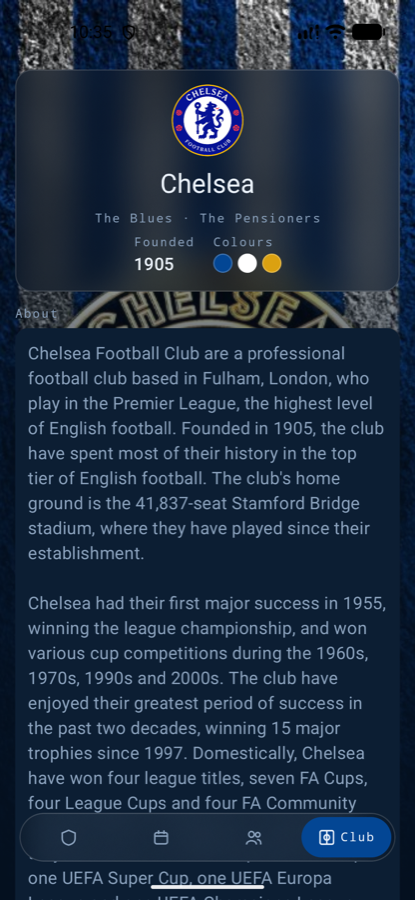
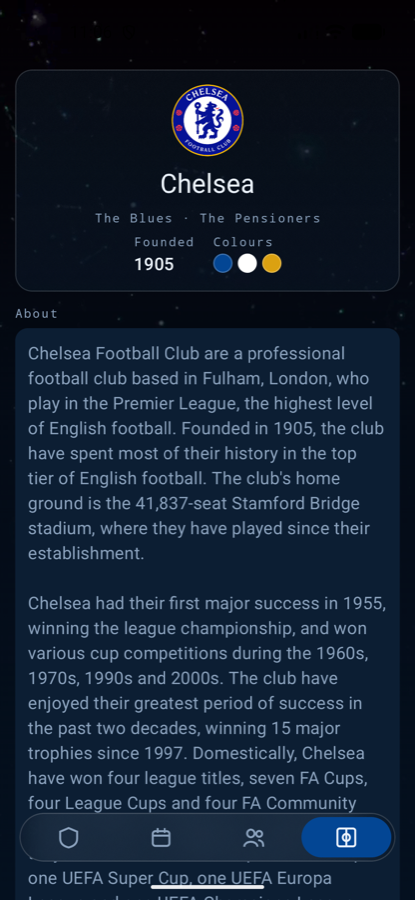
feat(club): play an ambient clip behind the club screen
The matchday photograph stays as it was; the club screen is where the player
now earns its place.

The clip is abstract on purpose, and that choice came from the failed
attempt rather than from taste. A backdrop has to survive being blended over
a photograph, and footage with a subject does not — a face stayed
recognisable at every opacity I tried. A night sky has nothing to recognise,
so it reads as weather over the crest.

diff --git a/feature/club/src/commonMain/kotlin/com/begoml/bridge/feature/club/ClubScreen.kt b/feature/club/src/commonMain/kotlin/com/begoml/bridge/feature/club/ClubScreen.kt
@@ -46,6 +46,7 @@ import com.begoml.bridge.core.data.model.Venue
 import com.begoml.bridge.foundation.tessera.collectUiState
 import com.begoml.bridge.uikit.LocalScreenPadding
 import com.begoml.bridge.uikit.component.BackdropImage
+import com.begoml.bridge.uikit.component.BackdropVideo
 import com.begoml.bridge.uikit.component.BadgeImage
 import com.begoml.bridge.uikit.component.GlassPanel
 import com.begoml.bridge.uikit.component.LoadableContent
@@ -56,6 +57,17 @@ import com.begoml.bridge.uikit.theme.BridgeColors
 import com.begoml.bridge.uikit.theme.LabelStyle
 import org.jetbrains.compose.resources.stringResource
 
+/**
+ * The clip behind this screen.
+ *
+ * Abstract on purpose. A backdrop has to survive being blended over a photograph, and anything
+ * with a subject does not: tried on device, narrative footage stays recognisable at any opacity.
+ * A night sky has nothing to recognise, so it reads as weather over the crest rather than as a
+ * video someone left running.
+ */
+private const val AmbientClipUrl =
+    "https://videos.pexels.com/video-files/2611250/2611250-hd_1920_1080_30fps.mp4"
+
 @Composable
 fun ClubScreen(delegate: ClubDelegate, modifier: Modifier = Modifier) {
     val state by delegate.collectUiState()
@@ -63,7 +75,12 @@ fun ClubScreen(delegate: ClubDelegate, modifier: Modifier = Modifier) {
 
     GlassBackdrop(
         modifier = modifier.fillMaxSize(),
-        backdrop = { BackdropImage(url = state.club?.media?.fanartUrls?.lastOrNull()) },
+        backdrop = {
+            BackdropVideo(
+                videoUrl = AmbientClipUrl,
+                posterUrl = state.club?.media?.fanartUrls?.lastOrNull(),
+            )
+        },
     ) {
         val glass = this
         LoadableContent(
